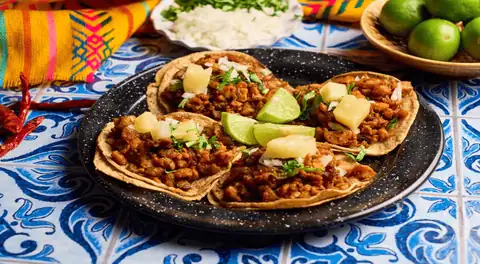
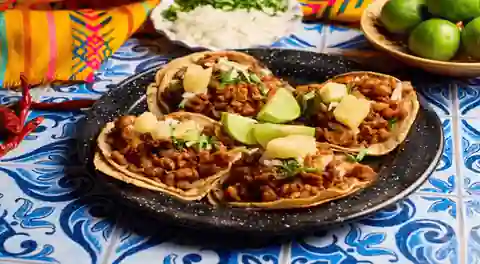
Cambios Detalles Rendimiento Sharp e Index

diff --git a/sharp_img_optimization.js b/sharp_img_optimization.js
@@ -80,7 +80,7 @@ const imageConversion = [
         width: 480,
         height: 264,
         fit: 'cover',
-        quality: 60,
+        quality: 10,
       },
       {
         name: 'det1_header_desktop.webp',
@@ -88,7 +88,7 @@ const imageConversion = [
         width: 800,
         height: 440,
         fit: 'cover',
-        quality: 30,
+        quality: 10,
       },
     ],
   },
@@ -101,7 +101,7 @@ const imageConversion = [
         width: 480,
         height: 264,
         fit: 'cover',
-        quality: 60,
+        quality: 30,
       },
       {
         name: 'det2_header_desktop.webp',
@@ -109,7 +109,7 @@ const imageConversion = [
         width: 800,
         height: 440,
         fit: 'cover',
-        quality: 40,
+        quality: 30,
       },
     ],
   },

diff --git a/src/det2/index.html b/src/det2/index.html
@@ -53,8 +53,8 @@
               src="../assets/img/det2_header_desktop.webp"
               alt="Imagen principal de la cultura mexicana"
               class="detail_img"
-              width="800"
-              height="440"
+              width="480"
+              height="264"
               fetchpriority="high"
             />
           </picture>

diff --git a/src/det1/index.html b/src/det1/index.html
@@ -54,8 +54,8 @@
               src="../assets/img/det1_header_mobile.webp"
               title="Tacos locos"
               alt="Imagen tacos"
-              width="800"
-              height="440"
+              width="480"
+              height="264"
               fetchpriority="high"
             />
           </picture>

diff --git a/tabla_imagenes_optimizadas.md b/tabla_imagenes_optimizadas.md
@@ -24,10 +24,10 @@
 | enchilada.png | enchilada_480.webp | PNG | WEBP | 163.89 KB | 42.52 KB | 74.06% |
 | enchilada.png | enchilada_640.webp | PNG | WEBP | 163.89 KB | 70.54 KB | 56.96% |
 | enchilada.png | enchilada_960.webp | PNG | WEBP | 163.89 KB | 89.24 KB | 45.55% |
-| tacos.png | det1_header_mobile.webp | PNG | WEBP | 198.92 KB | 28.8 KB | 85.52% |
-| tacos.png | det1_header_desktop.webp | PNG | WEBP | 198.92 KB | 38.13 KB | 80.83% |
-| fajita_carrousel_3.png | det2_header_mobile.webp | PNG | WEBP | 158.39 KB | 10.97 KB | 93.07% |
-| fajita_carrousel_3.png | det2_header_desktop.webp | PNG | WEBP | 158.39 KB | 16.71 KB | 89.45% |
+| tacos.png | det1_header_mobile.webp | PNG | WEBP | 198.92 KB | 12.09 KB | 93.92% |
+| tacos.png | det1_header_desktop.webp | PNG | WEBP | 198.92 KB | 24 KB | 87.93% |
+| fajita_carrousel_3.png | det2_header_mobile.webp | PNG | WEBP | 158.39 KB | 7.02 KB | 95.57% |
+| fajita_carrousel_3.png | det2_header_desktop.webp | PNG | WEBP | 158.39 KB | 14.16 KB | 91.06% |
 | taco_carrousel_1.png | taco_carrousel_1_1x.webp | PNG | WEBP | 187.96 KB | 16.87 KB | 91.02% |
 | taco_carrousel_1.png | taco_carrousel_1_2x.webp | PNG | WEBP | 187.96 KB | 25.18 KB | 86.6% |
 | taco_carrousel_2.png | taco_carrousel_2_1x.webp | PNG | WEBP | 144.42 KB | 13.15 KB | 90.89% |
